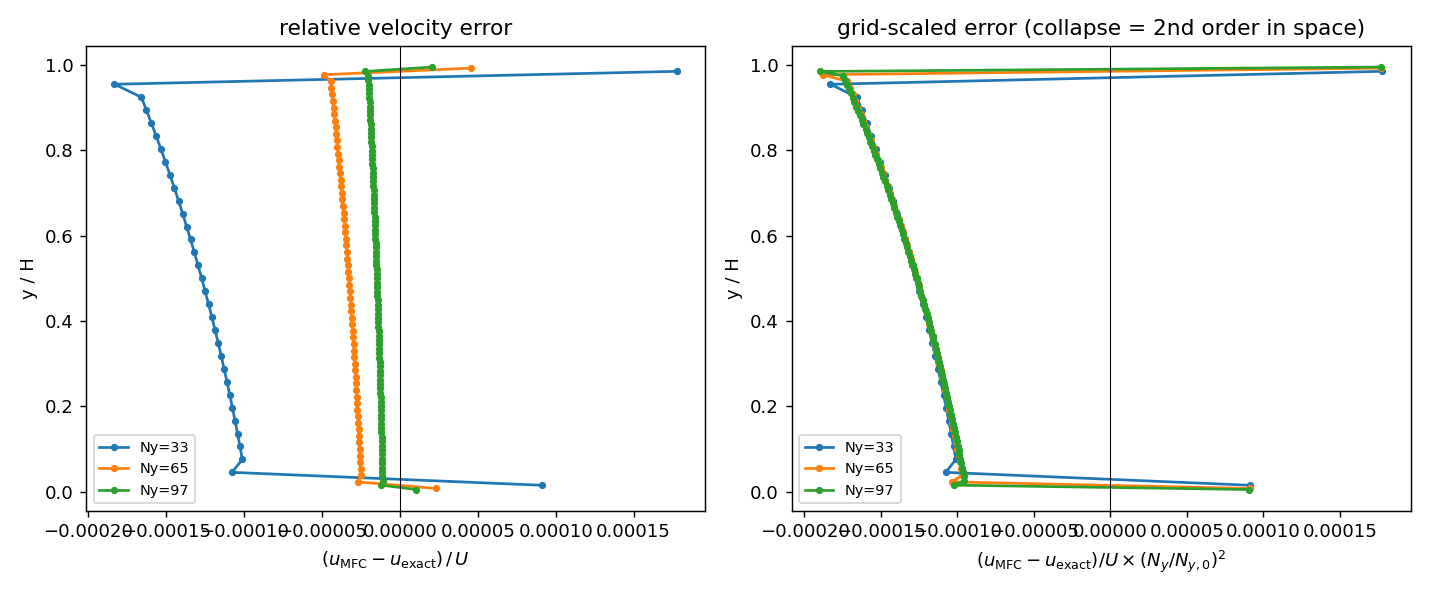
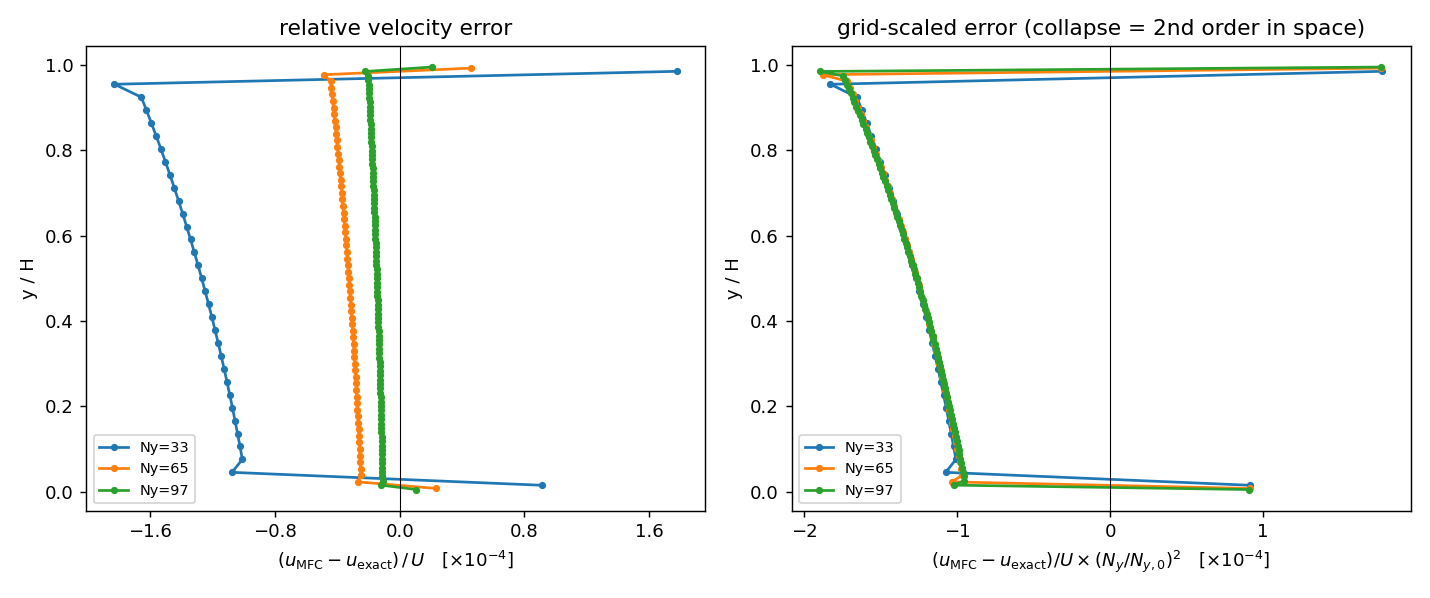
2D_Couette_Variable_Viscosity: scale error-figure x-axis to 1e-4 for readable ticks

Changed region(s): [[0.5231, 0.8729, 0.9538, 0.9632], [0.0308, 0.8729, 0.4615, 0.9632]]

diff --git a/examples/2D_Couette_Variable_Viscosity/validate.py b/examples/2D_Couette_Variable_Viscosity/validate.py
@@ -166,16 +166,17 @@ def main(grids):
     ny0 = nys[0]
     fig3, (axe, axs) = plt.subplots(1, 2, figsize=(11, 4.6))
     for r in results:
-        rel = (r["u"] - r["u_ex"]) / cfg.U
+        rel = 1e4 * (r["u"] - r["u_ex"]) / cfg.U  # in units of 1e-4 for readable ticks
         axe.plot(rel, r["yc"], "-o", ms=3, label=f"Ny={r['ny']}")
         axs.plot(rel * (r["ny"] / ny0) ** 2, r["yc"], "-o", ms=3, label=f"Ny={r['ny']}")
     for a in (axe, axs):
         a.axvline(0.0, color="k", lw=0.6)
         a.set_ylabel("y / H")
         a.legend(fontsize=8)
-    axe.set_xlabel(r"$(u_{\rm MFC} - u_{\rm exact})\,/\,U$")
+        a.xaxis.set_major_locator(plt.MaxNLocator(5))
+    axe.set_xlabel(r"$(u_{\rm MFC} - u_{\rm exact})\,/\,U\quad[\times 10^{-4}]$")
     axe.set_title("relative velocity error")
-    axs.set_xlabel(r"$(u_{\rm MFC} - u_{\rm exact})/U \times (N_y/N_{y,0})^2$")
+    axs.set_xlabel(r"$(u_{\rm MFC} - u_{\rm exact})/U \times (N_y/N_{y,0})^2\quad[\times 10^{-4}]$")
     axs.set_title("grid-scaled error (collapse = 2nd order in space)")
     fig3.tight_layout()
     fig3.savefig(os.path.join(FIG, "couette_error.png"), dpi=130)
